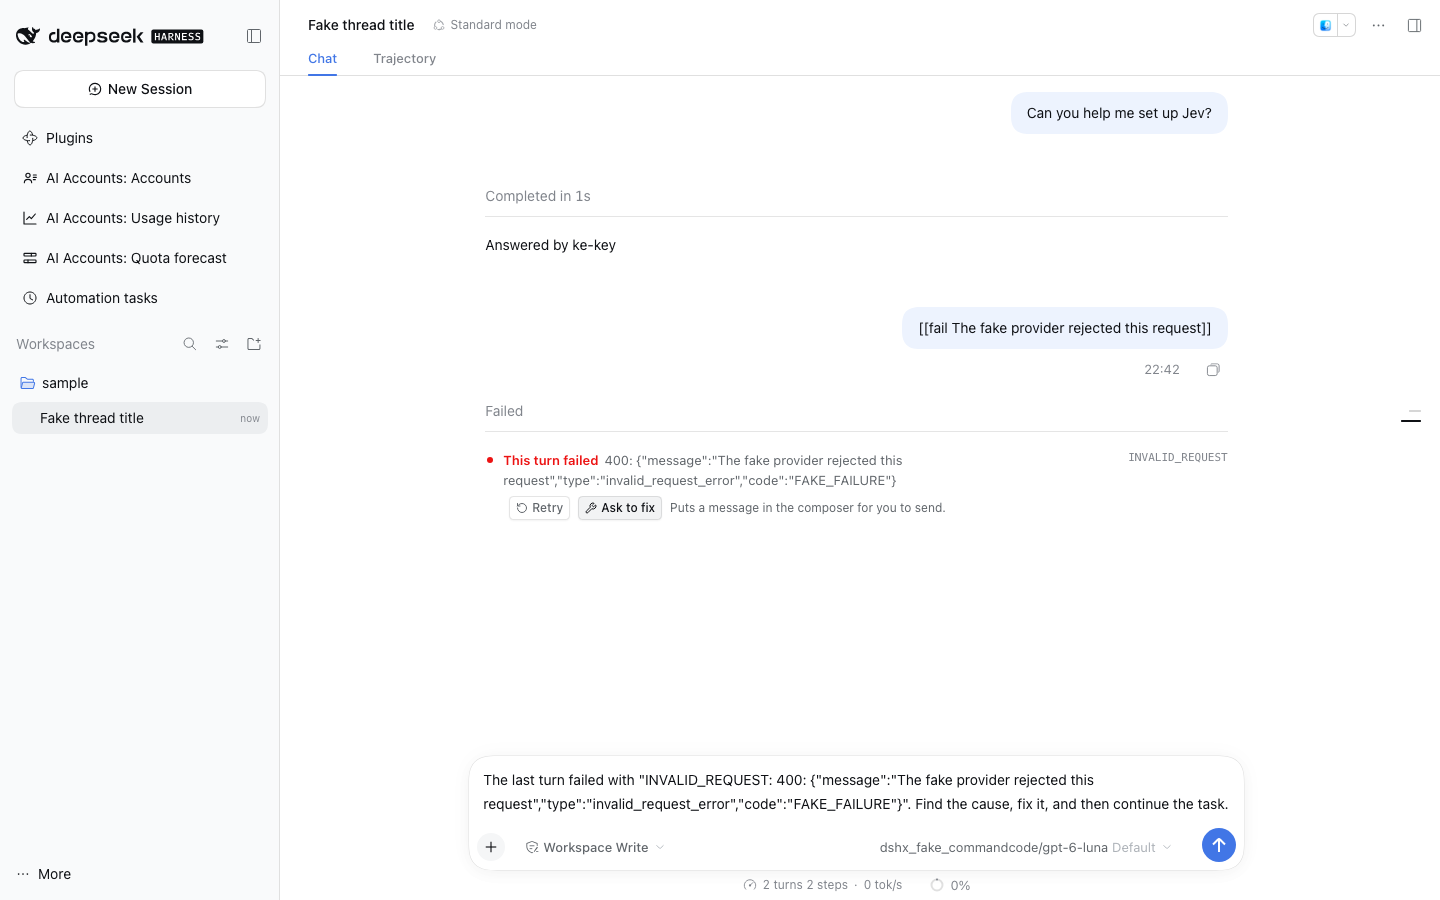
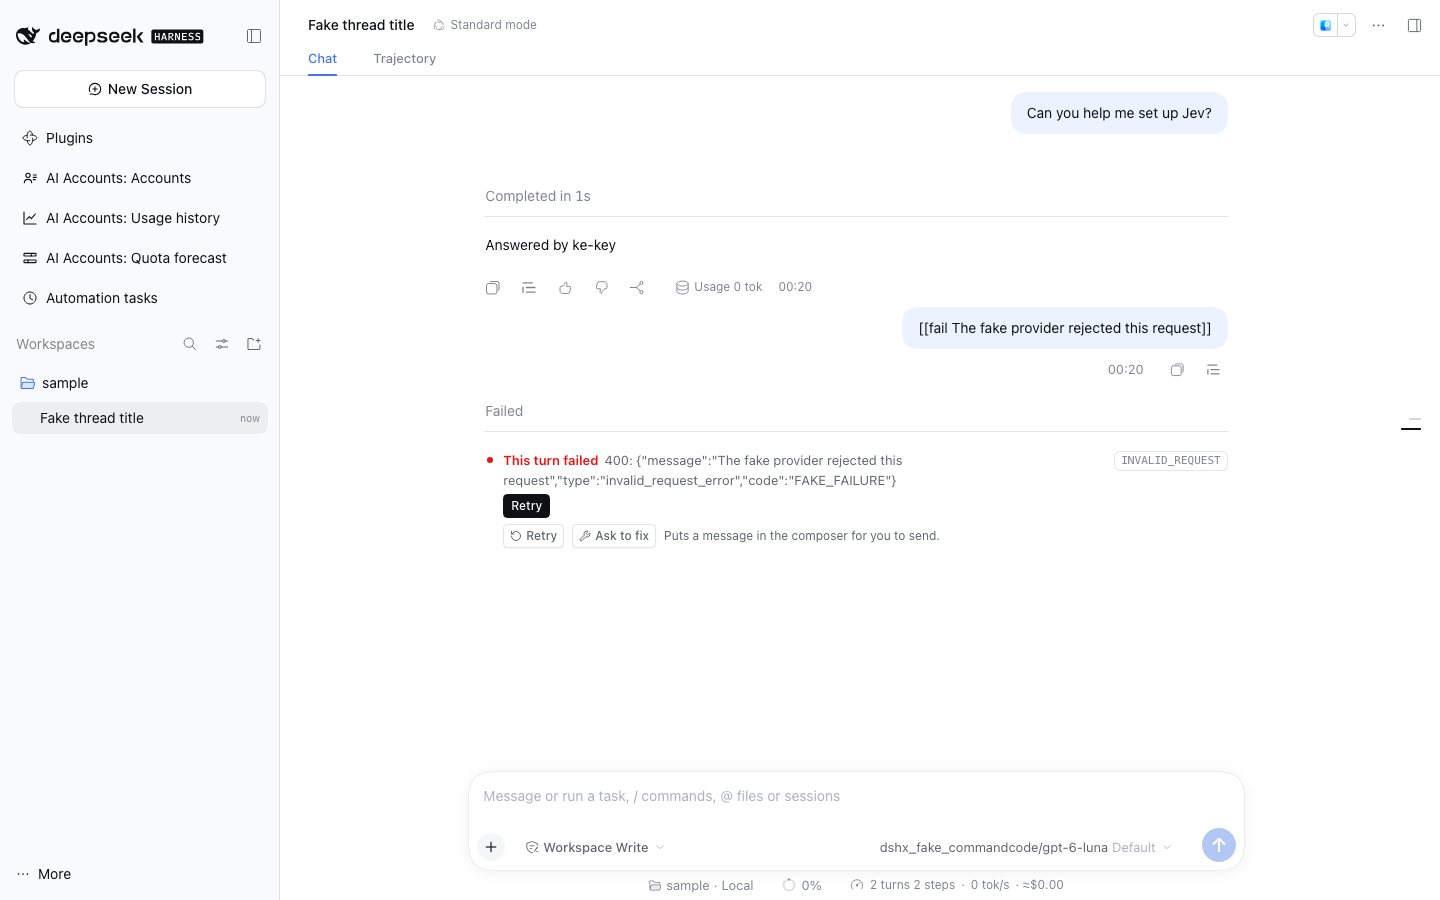
fix(chat): keep turn-error code badge and actions on the row grid
A failed turn's row placed every seat action, Resume and the error code as loose children of a three-column grid, so with Auto-resume and Retry present the code badge spilled into the 10px dot column of the next grid row, where RATE_LIMIT was clipped and overlapped the error text. Name the grid areas instead: dot, message and code badge on the first line, and every action in one wrapping row under the message column. Below 28rem of row width (phones, narrow panes) the badge drops under the message. Resume/Retry uses the xs button size like the actions under it, and agent-plan's Retry / Ask to fix bar starts at the message column (10px dot + 8px gap) instead of 24px, so all pills share one left edge.

diff --git a/plugins/@dshfiles/chat/src/native/chat/MessageItem.tsx b/plugins/@dshfiles/chat/src/native/chat/MessageItem.tsx
@@ -136,16 +136,22 @@ function TurnErrorItem({ node, t, action, extraActions }: {
   extraActions?: ReactNode
   t: ChatViewSlotProps['t']
 }) {
+  // Fixed cells: dot, copy, code badge; every action (seat additions, then Resume) shares one wrapping row under the
+  // copy column. Loose children used to spill into the 10px dot column of the next grid row and clip the code badge.
   return (
-    <div className={css.turnErrorRow} role="status">
-      <StateDot state="error" className={css.turnErrorDot} />
-      <div className={css.turnErrorCopy}>
-        <span className={css.turnErrorTitle}>{node.code === 'ACCOUNT_SIGNED_OUT' || node.code === 'INTERRUPTED' ? t('message.taskStopped') : t('message.turnError')}</span>
-        <span className={css.turnErrorMessage}>{failureMessage(node.message, node.code, t)}</span>
+    <div className={css.turnErrorFrame}>
+      <div className={css.turnErrorRow} role="status">
+        <StateDot state="error" className={css.turnErrorDot} />
+        <div className={css.turnErrorCopy}>
+          <span className={css.turnErrorTitle}>{node.code === 'ACCOUNT_SIGNED_OUT' || node.code === 'INTERRUPTED' ? t('message.taskStopped') : t('message.turnError')}</span>
+          <span className={css.turnErrorMessage}>{failureMessage(node.message, node.code, t)}</span>
+        </div>
+        {node.code !== undefined && node.code !== 'INTERRUPTED' && <code className={css.turnErrorCode}>{node.code}</code>}
+        <div className={css.turnErrorActions}>
+          {extraActions}
+          {action}
+        </div>
       </div>
-      {extraActions}
-      {action}
-      {node.code !== undefined && node.code !== 'INTERRUPTED' && <code className={css.turnErrorCode}>{node.code}</code>}
     </div>
   )
 }
@@ -156,13 +162,15 @@ function TurnMaxTokensItem({ t, action }: {
   t: ChatViewSlotProps['t']
 }) {
   return (
-    <div className={css.turnErrorRow} role="status">
-      <StateDot state="warning" className={css.turnErrorDot} />
-      <div className={css.turnErrorCopy}>
-        <span className={css.maxTokensTitle}>{t('message.maxTokens')}</span>
-        <span className={css.turnErrorMessage}>{t('message.maxTokens.hint')}</span>
+    <div className={css.turnErrorFrame}>
+      <div className={css.turnErrorRow} role="status">
+        <StateDot state="warning" className={css.turnErrorDot} />
+        <div className={css.turnErrorCopy}>
+          <span className={css.maxTokensTitle}>{t('message.maxTokens')}</span>
+          <span className={css.turnErrorMessage}>{t('message.maxTokens.hint')}</span>
+        </div>
+        <div className={css.turnErrorActions}>{action}</div>
       </div>
-      {action}
     </div>
   )
 }

diff --git a/plugins/@dshfiles/chat/src/native/chat/MessageItem.module.css b/plugins/@dshfiles/chat/src/native/chat/MessageItem.module.css
@@ -269,10 +269,24 @@
   color: var(--dsw-alias-label-secondary);
 }
 
+/* The row sizes by its own width (transcript column, split pane or phone), not the viewport. */
+.turnErrorFrame {
+  container-type: inline-size;
+}
+
+/*
+ * Dot | copy | code badge on the first line; actions wrap on their own line in the copy column, so they share its left
+ * edge (10px dot + 8px gap) with the bar plugins add under the row. Areas, not auto-placement: a seat that renders
+ * several children can no longer push the badge into the dot column.
+ */
 .turnErrorRow {
   display: grid;
   grid-template-columns: 10px minmax(0, 1fr) auto;
-  gap: 8px;
+  grid-template-areas:
+    'dot copy code'
+    '. actions actions';
+  column-gap: 8px;
+  row-gap: 0;
   align-items: start;
   padding: 2px 0;
   font-size: var(--dsh-content-font-size-secondary, 13px);
@@ -280,10 +294,12 @@
 }
 
 .turnErrorDot {
+  grid-area: dot;
   margin-top: 5px;
 }
 
 .turnErrorCopy {
+  grid-area: copy;
   min-width: 0;
   overflow-wrap: anywhere;
 }
@@ -299,8 +315,50 @@
 }
 
 .turnErrorCode {
+  grid-area: code;
+  justify-self: end;
+  box-sizing: border-box;
+  max-width: 24ch;
+  margin-top: 1px;
+  padding: 0 6px;
+  overflow: hidden;
+  border: 0.5px solid var(--dsw-alias-border-l2, rgba(0, 0, 0, 0.12));
+  border-radius: var(--dsw-radius-sm);
   color: var(--dsw-alias-label-tertiary);
   font: var(--dsw-font-markdown-code-block-small);
+  line-height: 18px;
+  text-overflow: ellipsis;
+  white-space: nowrap;
+}
+
+.turnErrorActions {
+  display: flex;
+  grid-area: actions;
+  flex-wrap: wrap;
+  align-items: center;
+  gap: 6px 8px;
+  min-width: 0;
+}
+
+.turnErrorActions:not(:empty) {
+  padding-top: 4px;
+}
+
+/* Phones and narrow panes: the badge leaves the text column its width and sits under the message, before the actions. */
+@container (max-width: 28rem) {
+  .turnErrorRow {
+    grid-template-columns: 10px minmax(0, 1fr);
+    grid-template-areas:
+      'dot copy'
+      '. code'
+      '. actions';
+  }
+
+  .turnErrorCode {
+    justify-self: start;
+    max-width: 100%;
+    margin-top: 4px;
+  }
 }
 
 .maxTokensTitle {

diff --git a/plugins/@dshfiles/agent-plan/src/failure-actions.tsx b/plugins/@dshfiles/agent-plan/src/failure-actions.tsx
@@ -12,6 +12,7 @@ export interface FailureComposer {
 
 /**
  * The bar under a native failure row: retry count, and two actions that write into the composer for the user to send.
+ * Its left edge (18px: the row's 10px dot plus 8px gap) lines up with the error text and the row's own actions.
  * Neither sends on its own: the user reviews the text first, the same contract `test-runs` uses for "Ask to fix".
  */
 export const FailureActions = (props: {
@@ -24,7 +25,7 @@ export const FailureActions = (props: {
   if (retry === undefined && !actionable) return null
   return (
     <div
-      className="dshx-root dshx:flex dshx:min-w-0 dshx:flex-wrap dshx:items-center dshx:gap-2 dshx:py-1 dshx:pl-6 dshx:text-xs dshx:text-muted-foreground"
+      className="dshx-root dshx:flex dshx:min-w-0 dshx:flex-wrap dshx:items-center dshx:gap-2 dshx:py-1 dshx:pl-[18px] dshx:text-xs dshx:text-muted-foreground"
       data-dshfiles-agent-failure={props.facts.kind}
     >
       {retry !== undefined && (

diff --git a/plugins/@dshfiles/chat/src/resume-interrupted.tsx b/plugins/@dshfiles/chat/src/resume-interrupted.tsx
@@ -49,8 +49,8 @@ export const ResumeInterruptedAction = (
     ? { idle: 'Retry', pending: 'Retrying…', failed: 'Could not retry. Try again.' }
     : { idle: 'Resume', pending: 'Resuming…', failed: 'Could not resume. Try again.' }
   return (
-    <span className="dshx-root dshx:flex dshx:flex-col dshx:gap-1">
-      <Button size="sm" disabled={resume.isPending} onClick={() => resume.mutate()}>
+    <span className="dshx-root dshx:flex dshx:flex-col dshx:items-start dshx:gap-1">
+      <Button size="xs" disabled={resume.isPending} onClick={() => resume.mutate()}>
         {resume.isPending ? label.pending : label.idle}
       </Button>
       {resume.isError && (

diff --git a/plugins/@dshfiles/chat/README.md b/plugins/@dshfiles/chat/README.md
@@ -36,7 +36,7 @@ Every other vendored file is byte-identical to the pinned revision.
 | `src/host.ts`                                   | exposes the gallery scope as a volatile setting that the client can read and update immediately                                                                                                                                                                                                                                                                                                                                                                  |
 | `src/native/apply.ts`                           | `apply` takes the dshx client decorator and hands it to the node-renderer registration, so a native node view can sit in this plugin's own client tree; it also wires the live image-gallery scope into Chat and its General settings row                                                                                                                                                                                                                        |
 | `src/native/chat/register-node-renderers.ts`    | applies that decorator to the `turn-error` node renderer only: the inline **Resume** button reads the interruption API through the plugin's API context, and the renderer declares the `conversation.chat.turnErrorAction` child seat                                                                                                                                                                                                                            |
-| `src/native/chat/MessageItem.tsx`               | `TurnErrorItem` renders the `action` node it is handed, which is where that **Resume** lands, plus the `extraActions` that seat contributes beside it                                                                                                                                                                                                                                                                                                            |
+| `src/native/chat/MessageItem.tsx`               | `TurnErrorItem` renders the `action` node it is handed, which is where that **Resume** lands, plus the `extraActions` that seat contributes beside it, all in one wrapping actions row under the message; the error code is a badge in its own grid cell that drops under the message below 28rem                                                                                                                                                                |
 | `src/native/contract/slots.ts`                  | declares `conversation.chat.turnErrorAction` through its own contract module, so a feature plugin can fill it without importing the whole Chat contract; exposes the live gallery-scope hook to Chat views                                                                                                                                                                                                                                                       |
 | `src/turn-error-action.ts`                      | new: the published `@dshfiles/chat/turn-error-action` contract — the seat's owner props and its `SlotMap` entry                                                                                                                                                                                                                                                                                                                                                  |
 | `src/native/chat/UserContent.tsx`               | hands every image position of one user message the whole message gallery, so the attachment row and the inline `[Image N]` references open one preview instead of one per image                                                                                                                                                                                                                                                                                  |
